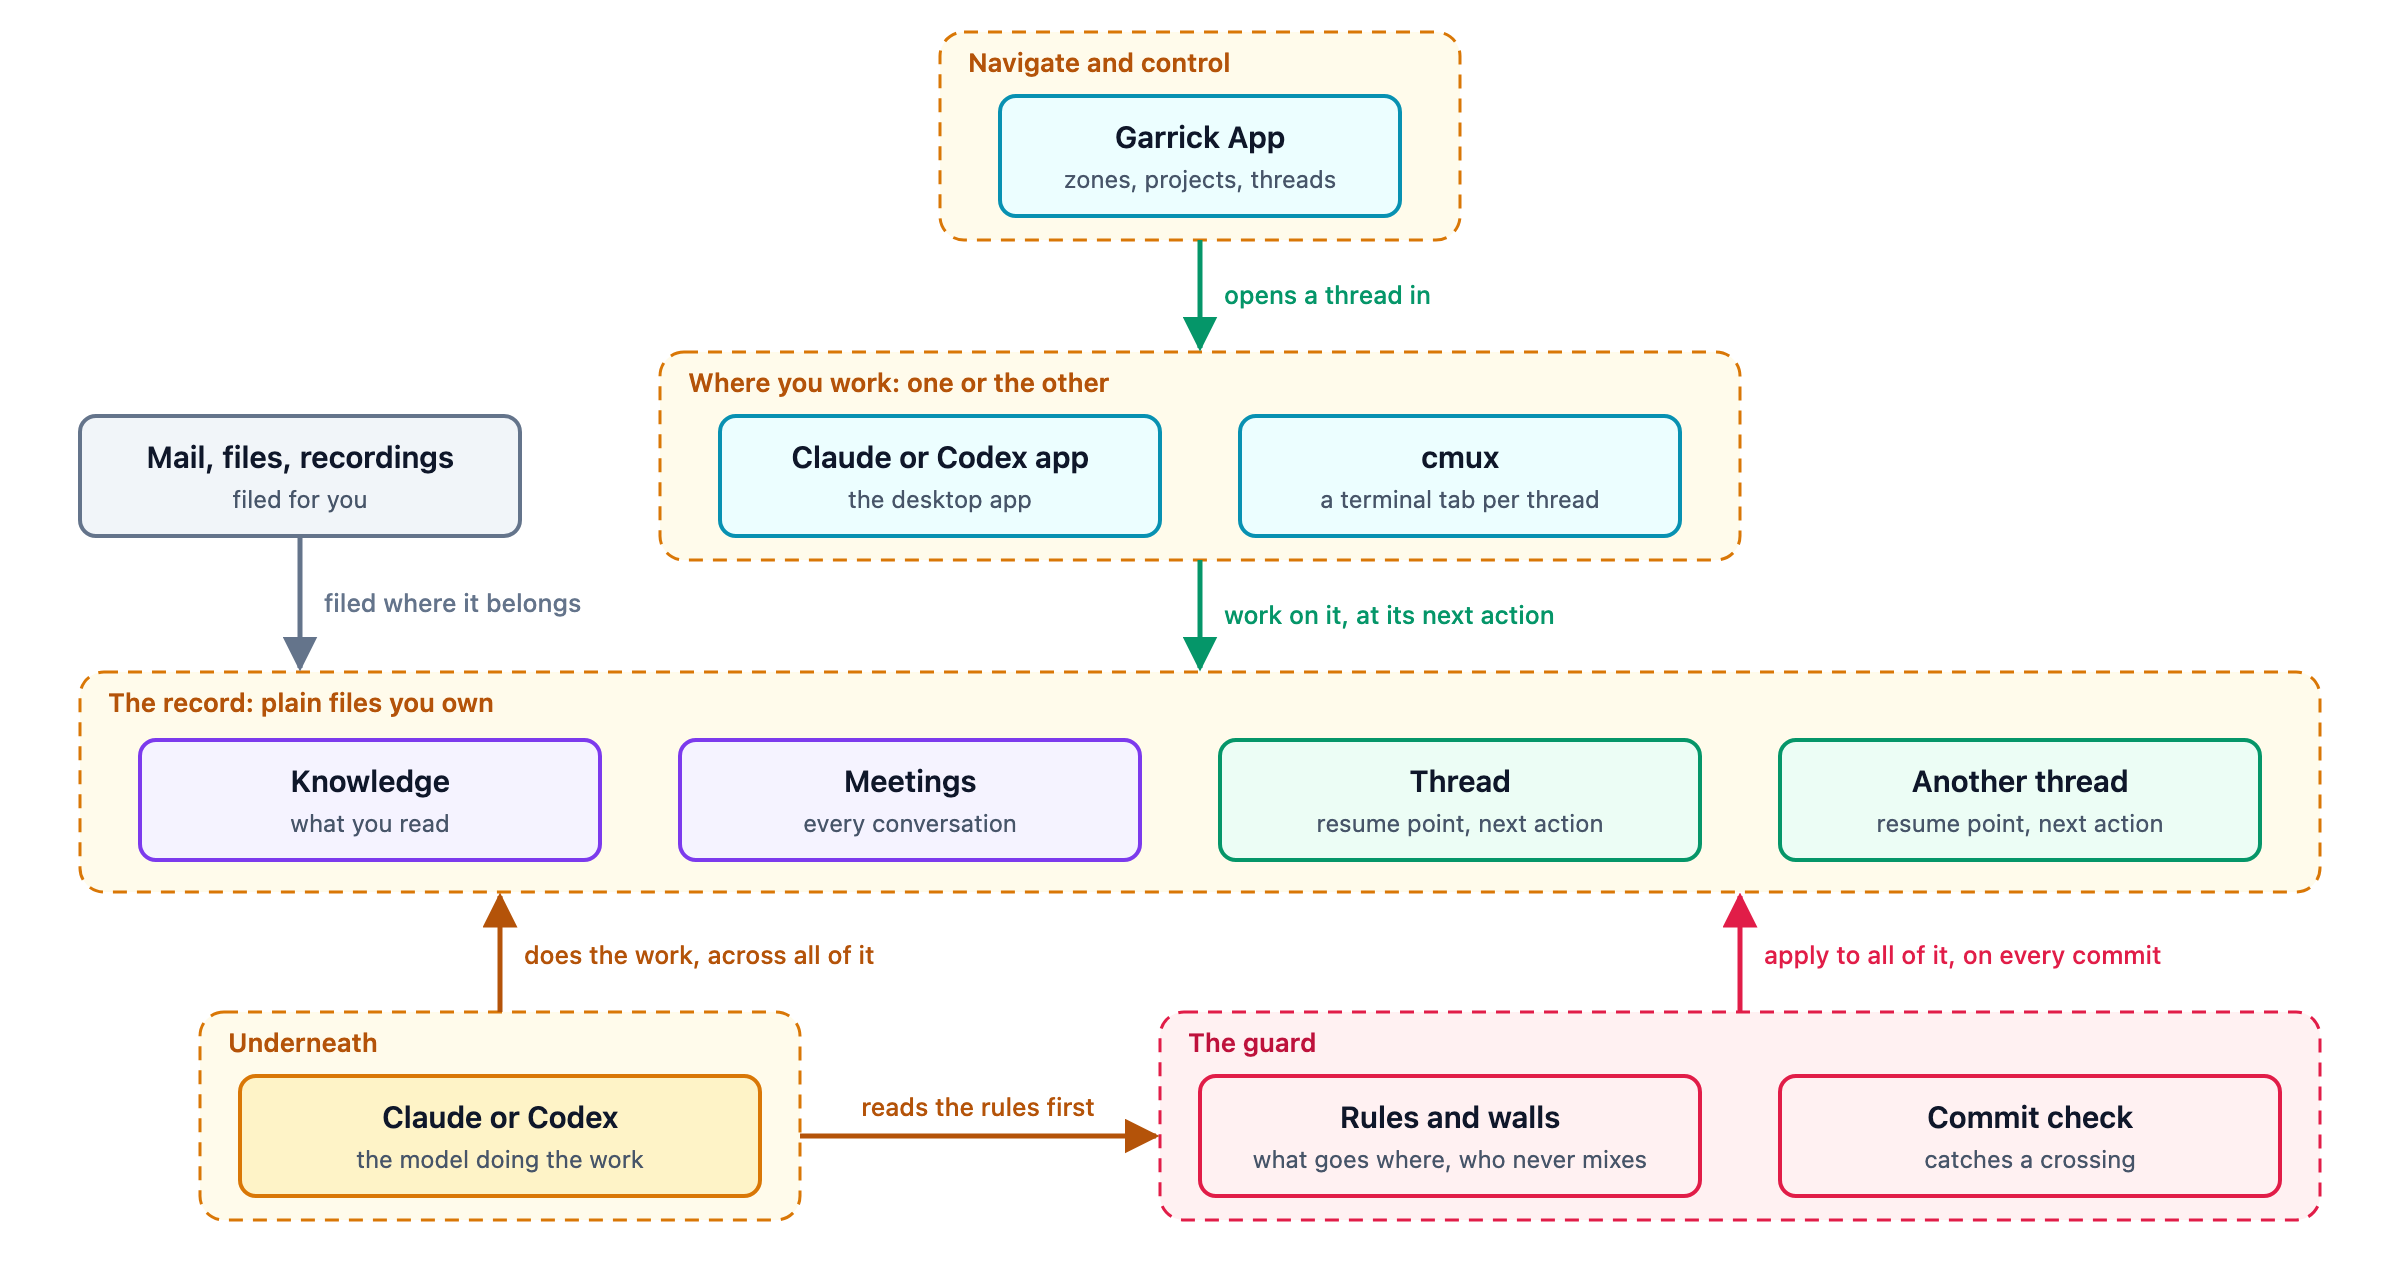
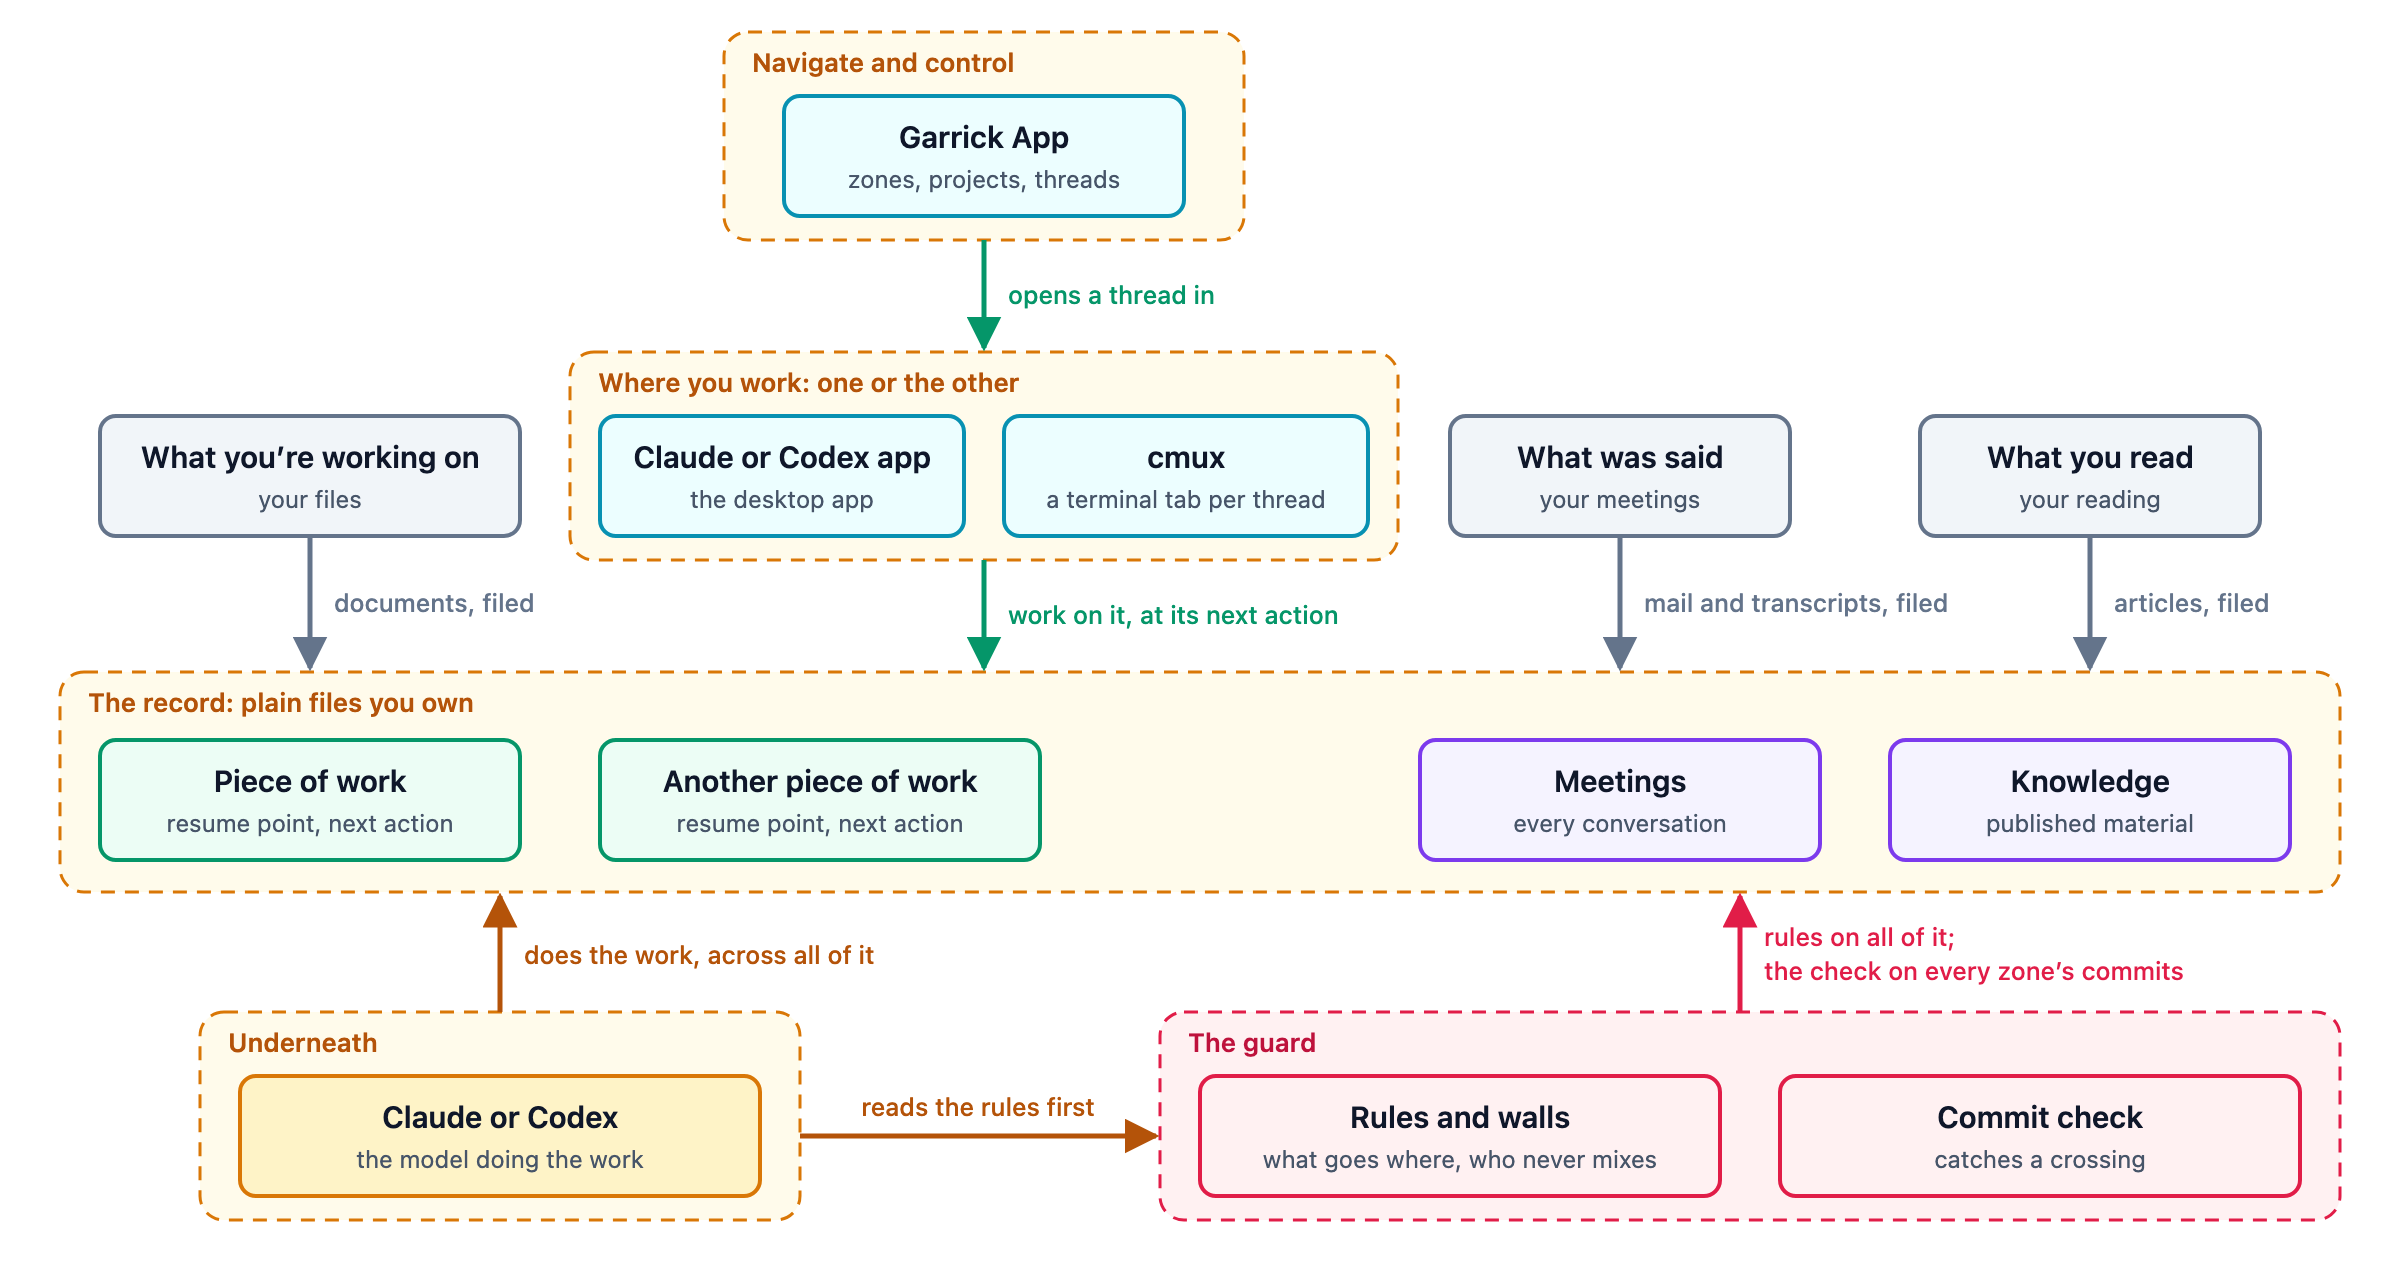
Diagram: three sources feed the record, and the guard's arrow says what the code does
The single side box for mail, files and recordings becomes the three
sources Garrick holds, in the positioning's order: what you're working on
(your files), what was said (your meetings) and what you read (your
reading). Each feeds its own part of the record, so the record now runs
pieces of work, Meetings, Knowledge from left to right, and the arrows
name what arrives and is filed there: documents, mail and transcripts,
articles. The sources stay side boxes, not a fifth layer. The thread
boxes are pieces of work, the reader-facing word; Knowledge's subtitle is
"published material", so it no longer repeats its source.

The guard's arrow said the rules and the check apply to all of the record
on every commit. The installer, scaffold.py and update.py put the
pre-commit check in every zone (check.py --install-hooks also in
repositories inside projects), and the wikis' repository has none, so it
now reads "rules on all of it; the check on every zone's commits". The
description and the guard card say the same.

overview.png is a headless Chrome screenshot of overview.html with
?theme=light&embed=1 at 1200x640 and device scale 2, as before.

diff --git a/docs/architecture/overview.html b/docs/architecture/overview.html
@@ -83,7 +83,7 @@
 <div class="stage">
 <svg viewBox="0 0 1200 640" role="img" aria-labelledby="dtitle ddesc" xmlns="http://www.w3.org/2000/svg">
   <title id="dtitle">Garrick at a glance</title>
-  <desc id="ddesc">Four layers. The Garrick App navigates zones, projects and threads and opens a thread where you work: the Claude or Codex desktop app, or cmux. You work on the record: Knowledge, Meetings and the threads, into which mail, files and recordings are filed. Underneath, Claude or Codex is the model doing the work across the whole record; it reads the rules first, and the rules, the walls and a check on every commit apply to the whole record.</desc>
+  <desc id="ddesc">Four layers. The Garrick App navigates zones, projects and threads and opens a thread where you work: the Claude or Codex desktop app, or cmux. You work on the record: your pieces of work, Meetings and Knowledge. Three sources feed it, each its own part: what you're working on, your files, feeds the pieces of work; what was said, your meetings, feeds Meetings; what you read feeds Knowledge. Documents, mail, transcripts and articles arrive and are filed there. Underneath, Claude or Codex is the model doing the work across the whole record; it reads the rules first. The rules and the walls apply to the whole record, and the commit check runs on every commit in each zone.</desc>
   <defs>
     <marker id="m-go" viewBox="0 0 10 10" refX="9" refY="5" markerWidth="7" markerHeight="7" orient="auto-start-reverse"><path class="ah-go" d="M0,0 L10,5 L0,10 z"/></marker>
     <marker id="m-in" viewBox="0 0 10 10" refX="9" refY="5" markerWidth="7" markerHeight="7" orient="auto-start-reverse"><path class="ah-in" d="M0,0 L10,5 L0,10 z"/></marker>
@@ -92,42 +92,48 @@
   </defs>
 
   <!-- Layer 1: navigate and control -->
-  <rect class="grp" x="470" y="16" width="260" height="104" rx="12"/>
-  <text class="glabel" x="484" y="36">Navigate and control</text>
-  <rect class="box nav" x="500" y="48" width="200" height="60" rx="8"/>
-  <text class="t" x="600" y="74">Garrick App</text>
-  <text class="s" x="600" y="94">zones, projects, threads</text>
+  <rect class="grp" x="362" y="16" width="260" height="104" rx="12"/>
+  <text class="glabel" x="376" y="36">Navigate and control</text>
+  <rect class="box nav" x="392" y="48" width="200" height="60" rx="8"/>
+  <text class="t" x="492" y="74">Garrick App</text>
+  <text class="s" x="492" y="94">zones, projects, threads</text>
 
   <!-- Layer 2: where you work -->
-  <rect class="grp" x="330" y="176" width="540" height="104" rx="12"/>
-  <text class="glabel" x="344" y="196">Where you work: one or the other</text>
-  <rect class="box nav" x="360" y="208" width="220" height="60" rx="8"/>
-  <text class="t" x="470" y="234">Claude or Codex app</text>
-  <text class="s" x="470" y="254">the desktop app</text>
-  <rect class="box nav" x="620" y="208" width="220" height="60" rx="8"/>
-  <text class="t" x="730" y="234">cmux</text>
-  <text class="s" x="730" y="254">a terminal tab per thread</text>
+  <rect class="grp" x="285" y="176" width="414" height="104" rx="12"/>
+  <text class="glabel" x="299" y="196">Where you work: one or the other</text>
+  <rect class="box nav" x="300" y="208" width="182" height="60" rx="8"/>
+  <text class="t" x="391" y="234">Claude or Codex app</text>
+  <text class="s" x="391" y="254">the desktop app</text>
+  <rect class="box nav" x="502" y="208" width="182" height="60" rx="8"/>
+  <text class="t" x="593" y="234">cmux</text>
+  <text class="s" x="593" y="254">a terminal tab per thread</text>
 
-  <!-- Way in -->
-  <rect class="box way" x="40" y="208" width="220" height="60" rx="8"/>
-  <text class="t" x="150" y="234">Mail, files, recordings</text>
-  <text class="s" x="150" y="254">filed for you</text>
+  <!-- The three sources, beside the layers: each feeds its own part of the record -->
+  <rect class="box way" x="50" y="208" width="210" height="60" rx="8"/>
+  <text class="t" x="155" y="234">What you’re working on</text>
+  <text class="s" x="155" y="254">your files</text>
+  <rect class="box way" x="725" y="208" width="170" height="60" rx="8"/>
+  <text class="t" x="810" y="234">What was said</text>
+  <text class="s" x="810" y="254">your meetings</text>
+  <rect class="box way" x="960" y="208" width="170" height="60" rx="8"/>
+  <text class="t" x="1045" y="234">What you read</text>
+  <text class="s" x="1045" y="254">your reading</text>
 
   <!-- Layer 3: the record -->
-  <rect class="grp" x="40" y="336" width="1120" height="110" rx="12"/>
-  <text class="glabel" x="54" y="356">The record: plain files you own</text>
-  <rect class="box memory" x="70" y="370" width="230" height="60" rx="8"/>
-  <text class="t" x="185" y="396">Knowledge</text>
-  <text class="s" x="185" y="416">what you read</text>
-  <rect class="box memory" x="340" y="370" width="230" height="60" rx="8"/>
-  <text class="t" x="455" y="396">Meetings</text>
-  <text class="s" x="455" y="416">every conversation</text>
-  <rect class="box thread" x="610" y="370" width="240" height="60" rx="8"/>
-  <text class="t" x="730" y="396">Thread</text>
-  <text class="s" x="730" y="416">resume point, next action</text>
-  <rect class="box thread" x="890" y="370" width="240" height="60" rx="8"/>
-  <text class="t" x="1010" y="396">Another thread</text>
-  <text class="s" x="1010" y="416">resume point, next action</text>
+  <rect class="grp" x="30" y="336" width="1140" height="110" rx="12"/>
+  <text class="glabel" x="44" y="356">The record: plain files you own</text>
+  <rect class="box thread" x="50" y="370" width="210" height="60" rx="8"/>
+  <text class="t" x="155" y="396">Piece of work</text>
+  <text class="s" x="155" y="416">resume point, next action</text>
+  <rect class="box thread" x="300" y="370" width="220" height="60" rx="8"/>
+  <text class="t" x="410" y="396">Another piece of work</text>
+  <text class="s" x="410" y="416">resume point, next action</text>
+  <rect class="box memory" x="710" y="370" width="200" height="60" rx="8"/>
+  <text class="t" x="810" y="396">Meetings</text>
+  <text class="s" x="810" y="416">every conversation</text>
+  <rect class="box memory" x="945" y="370" width="200" height="60" rx="8"/>
+  <text class="t" x="1045" y="396">Knowledge</text>
+  <text class="s" x="1045" y="416">published material</text>
 
   <!-- Layer 4: underneath, and the guard -->
   <rect class="grp" x="100" y="506" width="300" height="104" rx="12"/>
@@ -135,30 +141,37 @@
   <rect class="box model" x="120" y="538" width="260" height="60" rx="8"/>
   <text class="t" x="250" y="564">Claude or Codex</text>
   <text class="s" x="250" y="584">the model doing the work</text>
-  <rect class="grp-guard" x="580" y="506" width="580" height="104" rx="12"/>
+  <rect class="grp-guard" x="580" y="506" width="590" height="104" rx="12"/>
   <text class="glabel-guard" x="594" y="526">The guard</text>
-  <rect class="box rule" x="600" y="538" width="250" height="60" rx="8"/>
-  <text class="t" x="725" y="564">Rules and walls</text>
-  <text class="s" x="725" y="584">what goes where, who never mixes</text>
-  <rect class="box rule" x="890" y="538" width="250" height="60" rx="8"/>
-  <text class="t" x="1015" y="564">Commit check</text>
-  <text class="s" x="1015" y="584">catches a crossing</text>
+  <rect class="box rule" x="600" y="538" width="260" height="60" rx="8"/>
+  <text class="t" x="730" y="564">Rules and walls</text>
+  <text class="s" x="730" y="584">what goes where, who never mixes</text>
+  <rect class="box rule" x="890" y="538" width="260" height="60" rx="8"/>
+  <text class="t" x="1020" y="564">Commit check</text>
+  <text class="s" x="1020" y="584">catches a crossing</text>
 
-  <!-- Edges: every one ends on a group's border -->
-  <path class="edge go" d="M600,120 L600,174" marker-end="url(#m-go)"/>
-  <text class="elabel go-t" x="612" y="152">opens a thread in</text>
+  <!-- Edges: every one between layers ends on a group's border -->
+  <path class="edge go" d="M492,120 L492,174" marker-end="url(#m-go)"/>
+  <text class="elabel go-t" x="504" y="152">opens a thread in</text>
 
-  <path class="edge go" d="M600,280 L600,334" marker-end="url(#m-go)"/>
-  <text class="elabel go-t" x="612" y="312">work on it, at its next action</text>
+  <path class="edge go" d="M492,280 L492,334" marker-end="url(#m-go)"/>
+  <text class="elabel go-t" x="504" y="312">work on it, at its next action</text>
 
-  <path class="edge in" d="M150,268 L150,334" marker-end="url(#m-in)"/>
-  <text class="elabel in-t" x="162" y="306">filed where it belongs</text>
+  <path class="edge in" d="M155,268 L155,334" marker-end="url(#m-in)"/>
+  <text class="elabel in-t" x="167" y="306">documents, filed</text>
+
+  <path class="edge in" d="M810,268 L810,334" marker-end="url(#m-in)"/>
+  <text class="elabel in-t" x="822" y="306">mail and transcripts, filed</text>
+
+  <path class="edge in" d="M1045,268 L1045,334" marker-end="url(#m-in)"/>
+  <text class="elabel in-t" x="1057" y="306">articles, filed</text>
 
   <path class="edge work" d="M250,506 L250,448" marker-end="url(#m-work)"/>
   <text class="elabel work-t" x="262" y="482">does the work, across all of it</text>
 
   <path class="edge rl" d="M870,506 L870,448" marker-end="url(#m-rl)"/>
-  <text class="elabel rl-t" x="882" y="482">apply to all of it, on every commit</text>
+  <text class="elabel rl-t" x="882" y="473">rules on all of it;</text>
+  <text class="elabel rl-t" x="882" y="490">the check on every zone’s commits</text>
 
   <path class="edge work" d="M400,568 L578,568" marker-end="url(#m-work)"/>
   <text class="elabel work-t" x="489" y="558" text-anchor="middle">reads the rules first</text>
@@ -169,11 +182,11 @@
     <p>The Garrick App is the control panel over your zones, projects and threads: where each stands, what is due, park or wake a thread, tick an action.</p>
     <p>It opens a thread where you work: the Claude or Codex desktop app, or cmux with a terminal tab per thread. Say “hold this” when interrupted and “back” when you return.</p></section>
   <section class="card"><h2>The record</h2>
-    <p>Each thread has one resume point: what is done, the next action, and what was only in your head.</p>
-    <p>Meetings keeps every conversation, Knowledge what you read. All of it is plain Markdown in git, on your Mac. Mail, files and recordings are filed into it for you.</p></section>
+    <p>It holds what you’re working on, what was said and what you read: your pieces of work, Meetings and Knowledge. Documents, mail and transcripts are filed into the part they belong to for you.</p>
+    <p>Each piece of work has one resume point: what is done, the next action, and what was only in your head. All of it is plain Markdown in git, on your Mac.</p></section>
   <section class="card"><h2>Underneath, and the guard</h2>
     <p>Claude or Codex is the model doing the work across the whole record, whichever app you use it in, and it reads the rules first.</p>
-    <p>The rules and the walls you declare apply to everything in the record. A check before every commit catches links, names and copied wording across a wall, within limits: see <a href="../principles.md#what-the-check-covers">Principles and limits</a>.</p></section>
+    <p>The rules and the walls you declare apply to everything in the record. A check before every commit in each zone catches links, names and copied wording across a wall, within limits: see <a href="../principles.md#what-the-check-covers">Principles and limits</a>.</p></section>
 </div>
 </main>
 <script>

diff --git a/CHANGELOG.md b/CHANGELOG.md
@@ -4,6 +4,10 @@ What changed in each release. Dates are when the release was tagged. The format 
 
 ## [Unreleased]
 
+### Changed
+
+- The overview diagram shows what Garrick holds: what you're working on, what was said and what you read, each feeding its own part of the record (your pieces of work, Meetings and Knowledge), with documents, mail, transcripts and articles filed into them. The old single box for mail, files and recordings is gone, and the thread boxes are pieces of work. The guard's arrow now says what the code does: the rules apply to the whole record, and the commit check runs in every zone, not in the wikis.
+
 ## [0.42.0] - 2026-10-25
 
 "Catch me up" briefs you, thread by thread, on what changed while you were away; a new install with the simple home now gets the page it opens on; and status page builds no longer trip over each other or outlive the update that replaced them.
